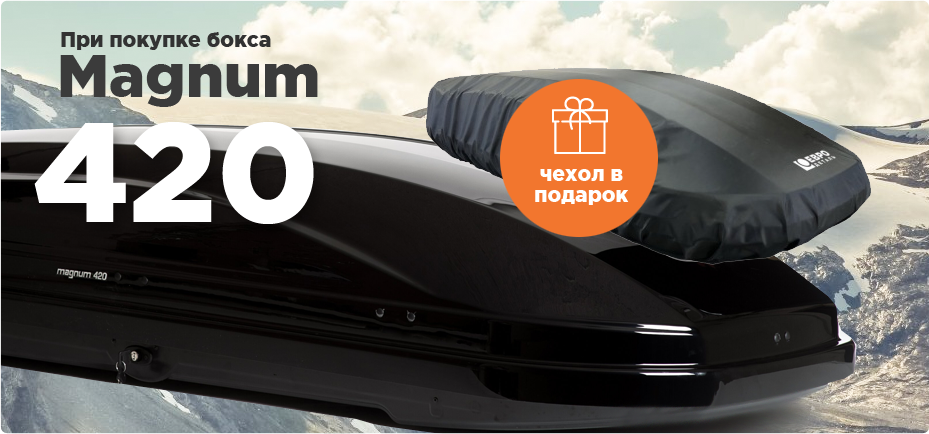
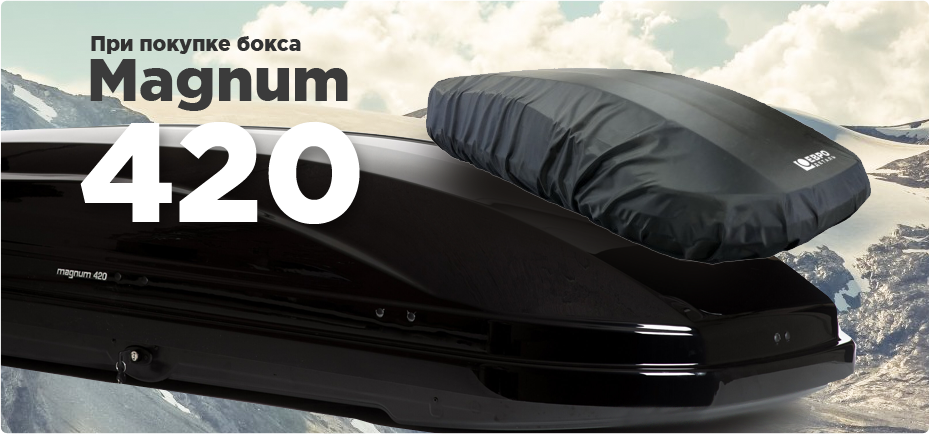
add slider controls, fix menu

Changed region(s): [[0.0312, 0.0599, 0.4058, 0.5392], [0.437, 0.1797, 0.718, 0.5991]]

diff --git a/dev/scss/style.scss b/dev/scss/style.scss
@@ -614,10 +614,18 @@ button, input {
 				font-size: 16px;
 			}
 			a{
+				position:relative;
+				top:1px;
 				color: #fff;
 				padding: 3px;
 				border-radius: 2px;
 				display: inline-block;
+				@include breakpoint(tablet){
+					top:6px;
+				}
+			}
+			.norm-postion{
+				top:0;
 			}
 			.shopping-sum{
 				vertical-align: top;
@@ -668,7 +676,7 @@ button, input {
 					@include breakpoint(tablet){
 						display: none;
 					}
-					&:hover{
+					li:hover{
 						color: #5e5e5e;
 					}
 					a{
@@ -748,10 +756,12 @@ button, input {
 .bars{
 	position: absolute;
 	top: 50%;
-	margin-top: -9px;
-	left: 10px;
-	width:30px;
-
+	margin-top: -10px;
+	left: -34px;
+	width: 30px;
+	@include breakpoint(tablet){
+		left: -20px;
+	}
 }
 
 .bar{
@@ -923,7 +933,10 @@ button, input {
 }
 .open{
 	background: #fff;
-	color: #5e5e5e;
+	span{
+		color: #5e5e5e;
+	}
+	
 }
 .active{
 	&_search{
@@ -974,7 +987,7 @@ button, input {
 	&__text{
 		position: absolute;
 		top: 60%;
-		left: 5%;
+		left: 8%;
 		:first-child{
 			font-size: 20px;
 			color: #fff;

diff --git a/dev/scss/lightslider.scss b/dev/scss/lightslider.scss
@@ -180,26 +180,27 @@
     width: 32px;
     display: block;
     top: 50%;
-    height: 32px;
-    background-image: url('../img/controls.png');
+    height: 118px;
+    background-image: url('../images/slider_controls.png');
     cursor: pointer;
     position: absolute;
     z-index: 4;
-    margin-top: -16px;
-    opacity: 0.5;
+    margin-top: -70px;
+    opacity: 1;
     -webkit-transition: opacity 0.35s linear 0s;
     transition: opacity 0.35s linear 0s;
+    transform:scale(0.6);
 }
 .lSAction > a:hover {
     opacity: 1;
 }
 .lSAction > .lSPrev {
-    background-position: 0 0;
-    left: 10px;
+    background-position: -39px 0;
+    left: -7px;
 }
 .lSAction > .lSNext {
-    background-position: -32px 0;
-    right: 10px;
+    background-position: 0 0;
+    right: -7px;
 }
 .lSAction > a.disabled {
     pointer-events: none;

diff --git a/dev/js/main-menu.js b/dev/js/main-menu.js
@@ -81,6 +81,7 @@ $(function(){
 		galleryMargin: 25,
 		item: 5,
 		slideMove:1,
+		controls:false,
 		responsive:[
 			{
 				breakpoint: 800,
@@ -98,7 +99,6 @@ $(function(){
 		item: 1,
 		slideMove:1,
 		pager: false,
-
 		addClass: '',
 		mode: "slide",
 		useCSS: true,
@@ -109,7 +109,7 @@ $(function(){
 		auto: true,
 		loop: true,
 		slideEndAnimation: true,
-		pause: 5000,
+		pause: 10000,
 	});
 	
 	
